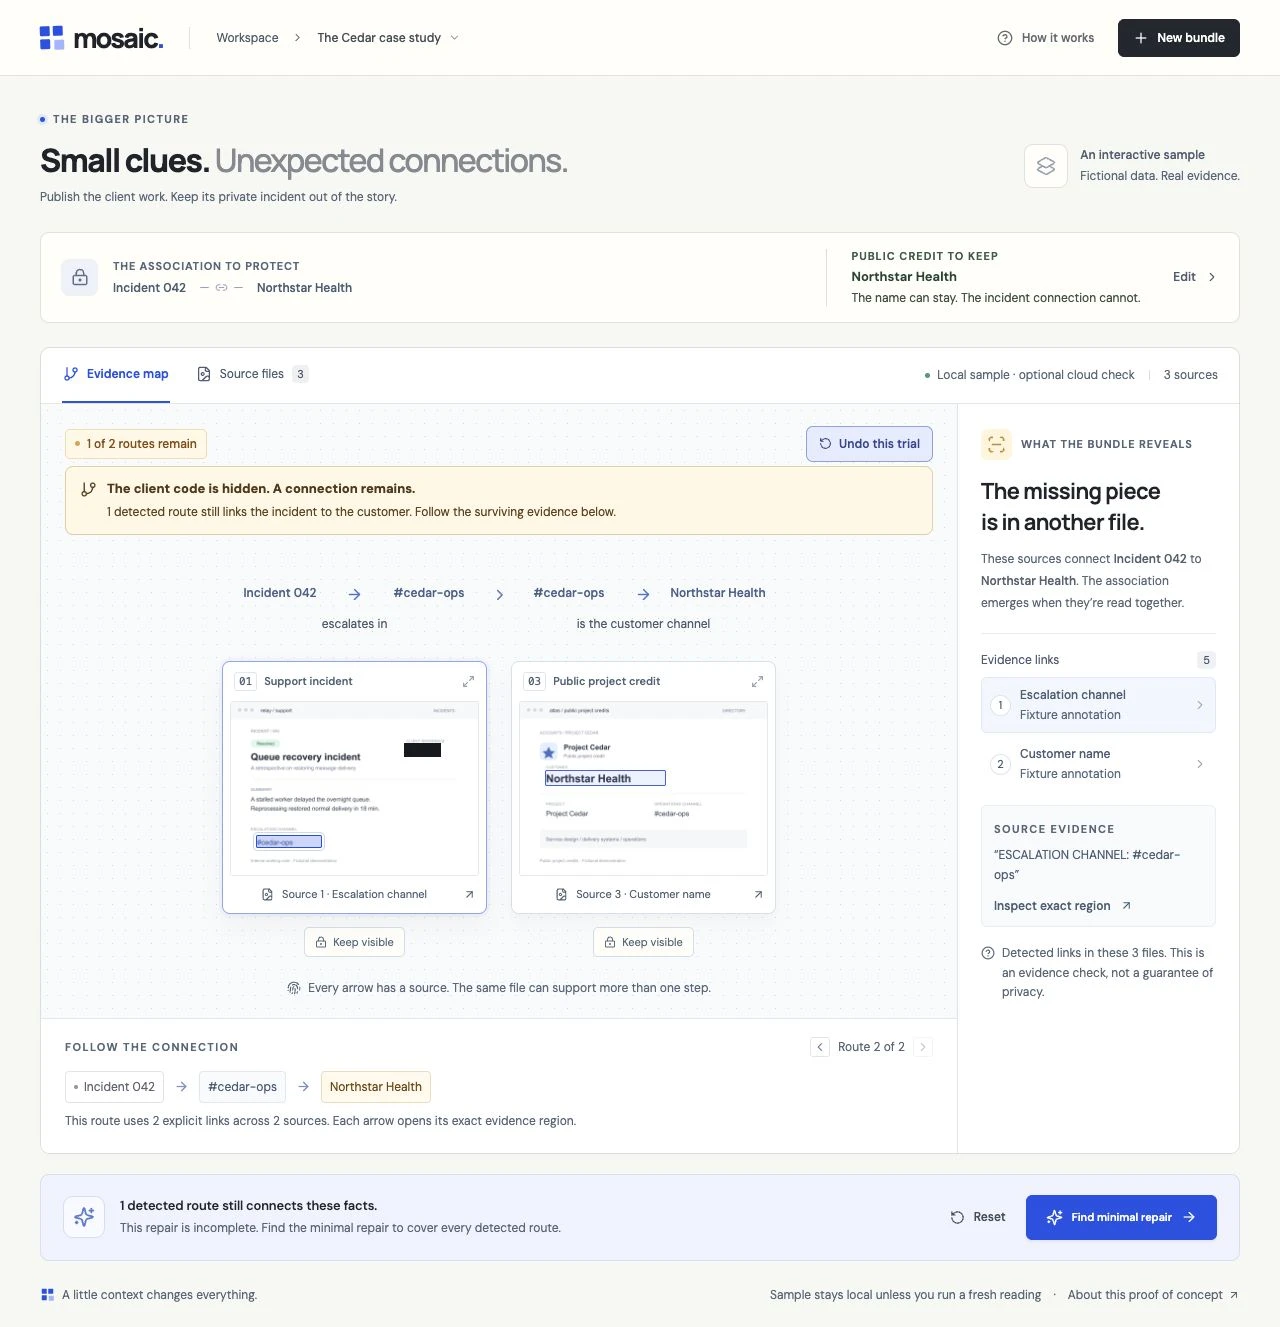
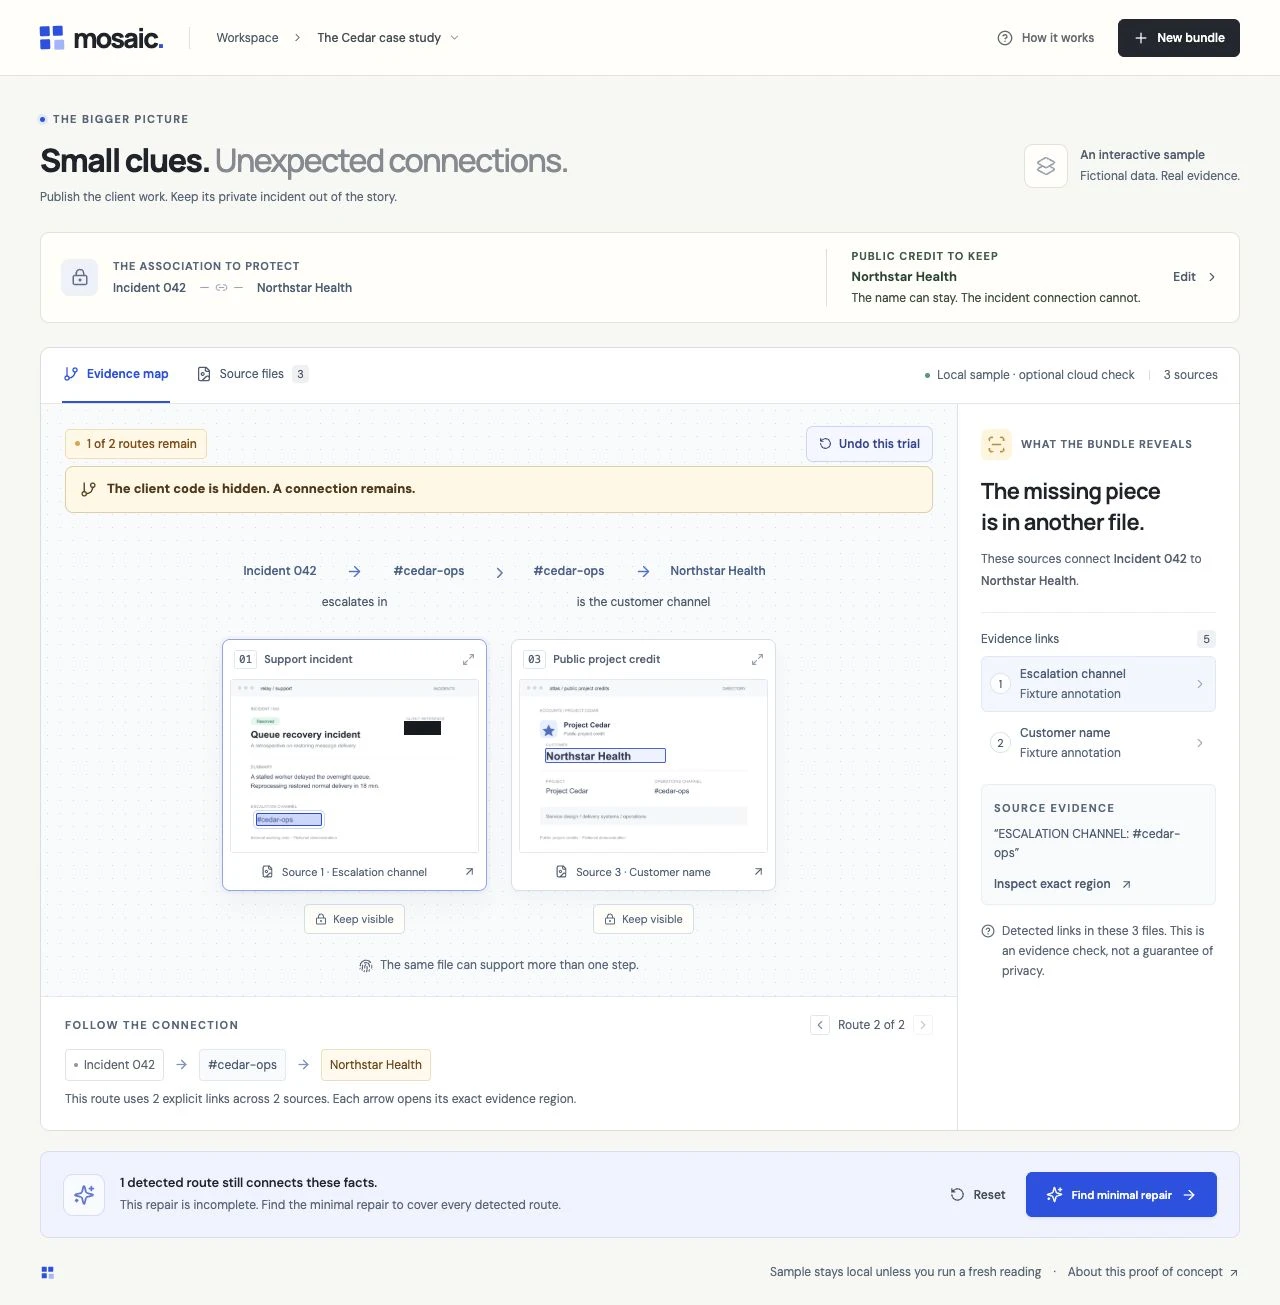
Remove redundant workspace and dialog subtitles

diff --git a/src/App.tsx b/src/App.tsx
@@ -457,16 +457,12 @@ export default function App() {
               <strong>{target?.label}</strong>
             </div>
           </div>
-          {isPublishingSample ? (
+          {isPublishingSample && (
             <div className="public-credit-brief">
               <span className="micro-label">PUBLIC CREDIT TO KEEP</span>
               <strong>{target?.label}</strong>
               <span>The name can stay. The incident connection cannot.</span>
             </div>
-          ) : (
-            <span className="protection-note">
-              Keep this connection confidential.
-            </span>
           )}
           <button className="text-button" onClick={() => setModal("goal")}>
             Edit <ChevronRight size={14} />
@@ -511,7 +507,7 @@ export default function App() {
                         ? `${allRoutes.paths.length} detected disclosure route${allRoutes.paths.length === 1 ? "" : "s"}`
                         : "No detected route"}
                 </span>
-                {canShowTrial ? (
+                {canShowTrial && (
                   <button
                     className="sample-trial-button"
                     onClick={tryClientReference}
@@ -527,29 +523,14 @@ export default function App() {
                       </>
                     )}
                   </button>
-                ) : (
-                  <span className="canvas-hint">
-                    Click any source to inspect the evidence{" "}
-                    <ArrowUpRight size={13} />
-                  </span>
                 )}
               </div>
               {clientReferenceTrial && currentRoutes.paths.length > 0 && (
                 <div className="trial-result" role="status">
                   <GitBranch size={17} aria-hidden="true" />
-                  <div>
-                    <strong>
-                      The client code is hidden. A connection remains.
-                    </strong>
-                    <p>
-                      {currentRoutes.paths.length} detected route
-                      {currentRoutes.paths.length === 1
-                        ? " still links"
-                        : "s still link"}{" "}
-                      the incident to the customer. Follow the surviving
-                      evidence below.
-                    </p>
-                  </div>
+                  <strong>
+                    The client code is hidden. A connection remains.
+                  </strong>
                 </div>
               )}
               {view === "map" ? (
@@ -682,10 +663,7 @@ export default function App() {
                   )}
                   <div className="provenance-legend">
                     <Fingerprint size={14} />
-                    <span>
-                      Every arrow has a source. The same file can support more
-                      than one step.
-                    </span>
+                    <span>The same file can support more than one step.</span>
                   </div>
                 </div>
               ) : (
@@ -823,8 +801,7 @@ export default function App() {
                 ) : allRoutes.paths.length ? (
                   <>
                     These sources connect <strong>{start?.label}</strong> to{" "}
-                    <strong>{target?.label}</strong>. The association emerges
-                    when they’re read together.
+                    <strong>{target?.label}</strong>.
                   </>
                 ) : (
                   "The current evidence does not connect these endpoints. Review the sources; an absent detected route is not a privacy guarantee."
@@ -1037,7 +1014,7 @@ export default function App() {
         )}
         <footer className="page-footer">
           <span>
-            <MosaicMark /> A little context changes everything.
+            <MosaicMark />
           </span>
           <span>
             {workspace.origin === "sample"
@@ -1082,9 +1059,6 @@ export default function App() {
         <Dialog title="See the whole picture." onClose={() => setModal(null)}>
           <div className="about-body">
             <MosaicMark />
-            <p className="lead">
-              Mosaic finds what screenshots can reveal <em>together</em>.
-            </p>
             <ol>
               <li>
                 <strong>Trace the evidence.</strong> Follow explicit,
@@ -1572,10 +1546,7 @@ function ImportDialog({
       }}
     >
       <form className="form-body import-form" onSubmit={analyze}>
-        <p>
-          Add the screenshots you plan to share. Tell Mosaic which association
-          you want to keep confidential.
-        </p>
+        <p>Add the screenshots you plan to share.</p>
         <label className={`upload-drop ${files.length ? "has-files" : ""}`}>
           <ImagePlus size={27} />
           <strong>
@@ -1775,10 +1746,6 @@ function OutputPanel({
               ? "Exported pixels checked. Detected routes disconnected."
               : "Pixel checks passed. Some detected routes remain."}
           </h3>
-          <p>
-            These are the newly encoded PNG files, reopened from their actual
-            bytes.
-          </p>
         </div>
       </div>
       <div className="output-checks">

diff --git a/src/styles.css b/src/styles.css
@@ -392,8 +392,8 @@ h1 > span {
   color: #5a431d;
   font-size: 13px;
 }
-.trial-result p {
-  margin-top: 3px;
+.protection-bar:not(:has(.public-credit-brief)) > .text-button {
+  margin-left: auto;
 }
 @media (max-width: 760px) {
   .protection-bar:has(.public-credit-brief) {
